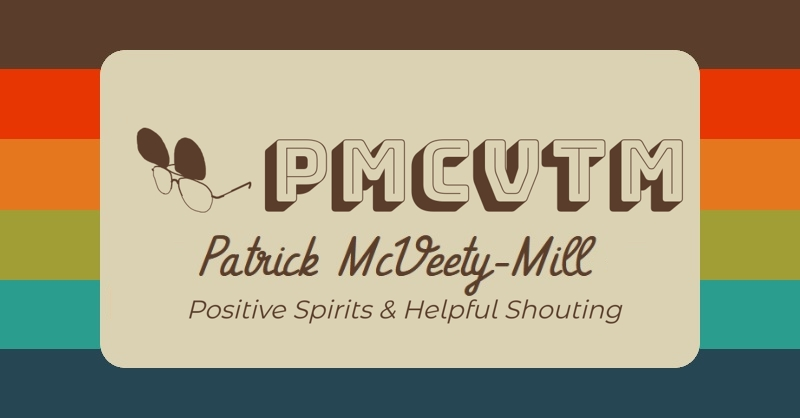
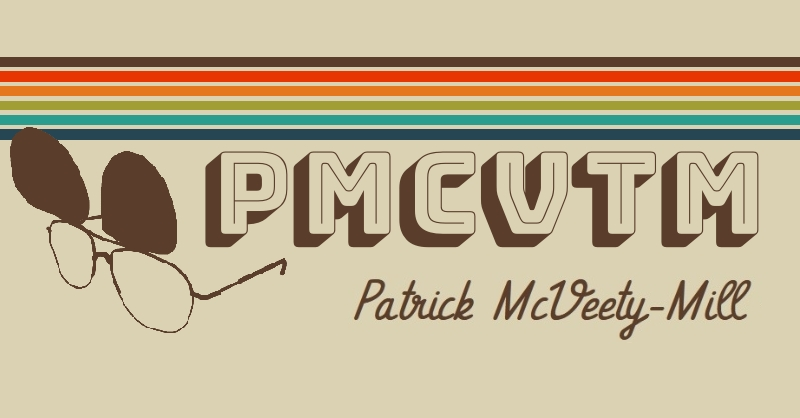
post up some old drafts and fix some things
new default card image, re-size big headings, and expand list items

diff --git a/_sass/site.scss b/_sass/site.scss
@@ -26,9 +26,9 @@ body {
     color: $color;
 }
 
-h1 { @include typo(2rem,    5vw,      4rem,     $vermilion); }
-h2 { @include typo(1.75rem, 3vw,      3rem,  $teal); }
-h3 { @include typo(1.5rem,  3.25vw,   2.75rem,   $orange); }
+h1 { @include typo(2rem,    5vw,      3.25rem,     $vermilion); }
+h2 { @include typo(1.75rem, 4vw,      2.75rem,  $teal); }
+h3 { @include typo(1.5rem,  3.5vw,   2.25rem,   $orange); }
 h4 { @include typo(1.25rem, 2.75vw,   1.75rem,     $charcoal); }
 h5 { @include typo(1rem,    3vw,      1.5rem,  $citron); font-weight: bold; }
 p,li,code { @include typo(1rem, 2vw,  1.25rem,   $text); }

diff --git a/_includes/whatsnew.html b/_includes/whatsnew.html
@@ -1,10 +1,6 @@
 <li>
-  <span class="highlight">Hire me!</span> I'm looking for contract work. <br />
+  <span class="highlight">Hire me!</span> I'm looking for short-term, part time contract work. <br />
   <a href="mailto:patrick@pmcvtm.com">Let's do business</a>.
-</li>
-<li>I'll be at <span class="highlight">KCDC</span> June 27-28! Come say hi!</li>
-<li>
-  I got a haircut! If we met within the past 5 years. You <span class="highlight">may not recognize me</span>.
 </li>
 <li>
   What do you think of the <span class="highlight">new site design?</span> <br />

diff --git a/_sass/posts.scss b/_sass/posts.scss
@@ -24,6 +24,12 @@
         }
     }
 
+    li {
+        padding-top: 0.25em;
+        padding-bottom: 0.25em;
+        line-height: 1.2em;
+    }
+
     .the-rest {
         padding: 0 1em;
     }

diff --git a/_posts/2024-05-07-isolating-dev-environments-with-dev-containers.md b/_posts/2024-05-07-isolating-dev-environments-with-dev-containers.md
@@ -1,0 +1,38 @@
+---
+layout: post
+title: Isolated Dev Environments with Dev Containers
+date:  2024-05-10 11:29:00 -0500
+categories: Tech
+color: vermillion
+tags: development docker vscode
+---
+
+About a month ago, I wrote about [using Toolbx]({% post_url 2024-04-16-isolating-dev-environments-with-toolbox %}) to keep dependencies separated between different dev environments, on Fedora Silverblue. Well I eventually ran into enough friction to be frustrating, and decided my atomic desktop experiment was over. But I couldn't let go of how nice it was to avoid cluttering my host machine whenever I needed to install dependencies for a given project.
+
+While I _could_ install Toolbx on my new setup, I decided to try out something else: Development Containers. Dev containers are an [open spec](https://containers.dev/) with tight integrations for [different](https://code.visualstudio.com/docs/devcontainers/create-dev-container) [tools](https://www.jetbrains.com/help/idea/connect-to-devcontainer.html) that isolates by allowing you to edit and execute your code inside a Docker container. You may remember hubbub about [GitHub Codespaces](https://docs.github.com/en/codespaces/overview) - cloud-based dev environments - which also utilize this tech.
+
+Setting up a dev container is incredibly straightforward. The VS Code extension will guide you through selecting from many functioning templates, but ultimately it's as simple as one file. Here're the contents of the one for [the repository](https://github.com/pmcvtm/pmcvtm.com/blob/main/.devcontainer/devcontainer.json) which powers this blog:
+
+```json
+{
+    "name": "Jekyll",
+    "image": "mcr.microsoft.com/devcontainers/jekyll:2-bullseye",
+
+    "forwardPorts": [4000],
+    "postCreateCommand": "bundle exec jekyll serve",
+
+    "remoteUser": "root"
+}
+```
+
+This is a very simple example, but the schema is [incredibly robust](https://containers.dev/implementors/json_schema/) and there is lots of guidance out there for handling more complex scenarios. Let's break down its parts:
+
+- A `name` and the docker `image`, which is the magic of it. That `jekyll` image is pre-installed with Ruby, the bundle gem, and all the other dependencies needed.
+  - It comes prefab from Microsoft (as do many others), but you could _build_ your own Docker image to fit your application's needs and put that here too
+- The `forwardPorts` to expose to the host, here Jekyll's default 4000
+- An (optional) `postCreateCommand`: I work on my blog in "watch" mode so I start it up and keep it running by default. You can also leave this blank and interact with the container through your editor's terminal as-needed.
+- The `remoteUser` will often be root, but if your image runs as another user, say so here
+
+Now, regardless of what computer I'm on, so long as it's got Docker, I can pull the repo down and just start working. All of the dependencies I would normally install for setup have been pushed into the "build the image" step. Of course, if you're container-averse, you can still install everything on the host and run it the old fashioned way.
+
+I, on the other hand, am a big believer in anything that makes development faster and less frustrating, so I've been plugging this on all my GH Pages sites, into some new python projects I'm working on, and can't wait to stretch into more advanced situations.

diff --git a/_posts/2024-04-16-isolating-dev-environments-with-toolbox.md b/_posts/2024-04-16-isolating-dev-environments-with-toolbox.md
@@ -1,0 +1,23 @@
+---
+layout: post
+title: Isolated Dev Environments with Toolbx
+date:  2024-04-16 15:02:00 -0600
+categories: Tech
+color: vermillion
+tags: development linux
+---
+
+I recently got a laptop for doing work on the go. I went with a [Framework](https://frame.work/) model, and decided to go for using Linux, because I'm frugal, and Windows seems to be getting worse. In picking out a distro I am trying out [Fedora Silverblue](https://fedoraproject.org/atomic-desktops/silverblue/), an _atomic_ desktop environment. All updates and non-containerized installations are saved in a git-like history, so when there are issues you can "roll back" to the previous state of the operating system. This is a welcome guardrail as someone who's bungled a Linux desktop setup or two trying to sort out drivers and customizations. When getting set up to develop however, it can be a bit of a pain.
+
+To alleviate said pain, Silverblue comes pre-installed with [Toolbx](https://containertoolbx.org/), a CLI tool that provides a containerized environment where you can safely install things "the normal way" in a non-atomic distro like plain Fedora or Ubuntu. It's amazing simple to start up:
+
+```shell
+toolbox create --distro fedora --release f39 hyde
+toolbox enter hyde
+```
+
+From here inside "Hyde," I installed Ruby using Fedora's package manager `dnf`, and proceeded to pull down this blog, which runs on Jekyll. All of my git config aliases and config "just worked," since the box shares the Home folder with the host. Outside of Hyde, however, there's no Ruby to be found. Similarly, to work on a .NET app, I created a different container to install that SDK on, safe from and unbothered by what dependencies lurk for other projects.
+
+In practice, using Toolbx reminded me a bit of using the [Windows Subsystem for Linux (WSL)](https://learn.microsoft.com/en-us/windows/wsl/about) on Windows: Here's a little alternative OS that lives within my OS, without a VM. Just like WSL, you select which distro you'd like, install it, and then interact with it through a separate shell, with some important shared parts with the host. It's possible to go beyond using the container from the CLI, though, with fancy desktop integrations and even the ability to [boot from the container](https://containertoolbx.org/use/#boot-from-container) directly.
+
+There are plenty of options to isolate your dev environment, and I will likely try some others, but I would also recommend Toolbx to any Linux users for its ease of use and flexibility.
